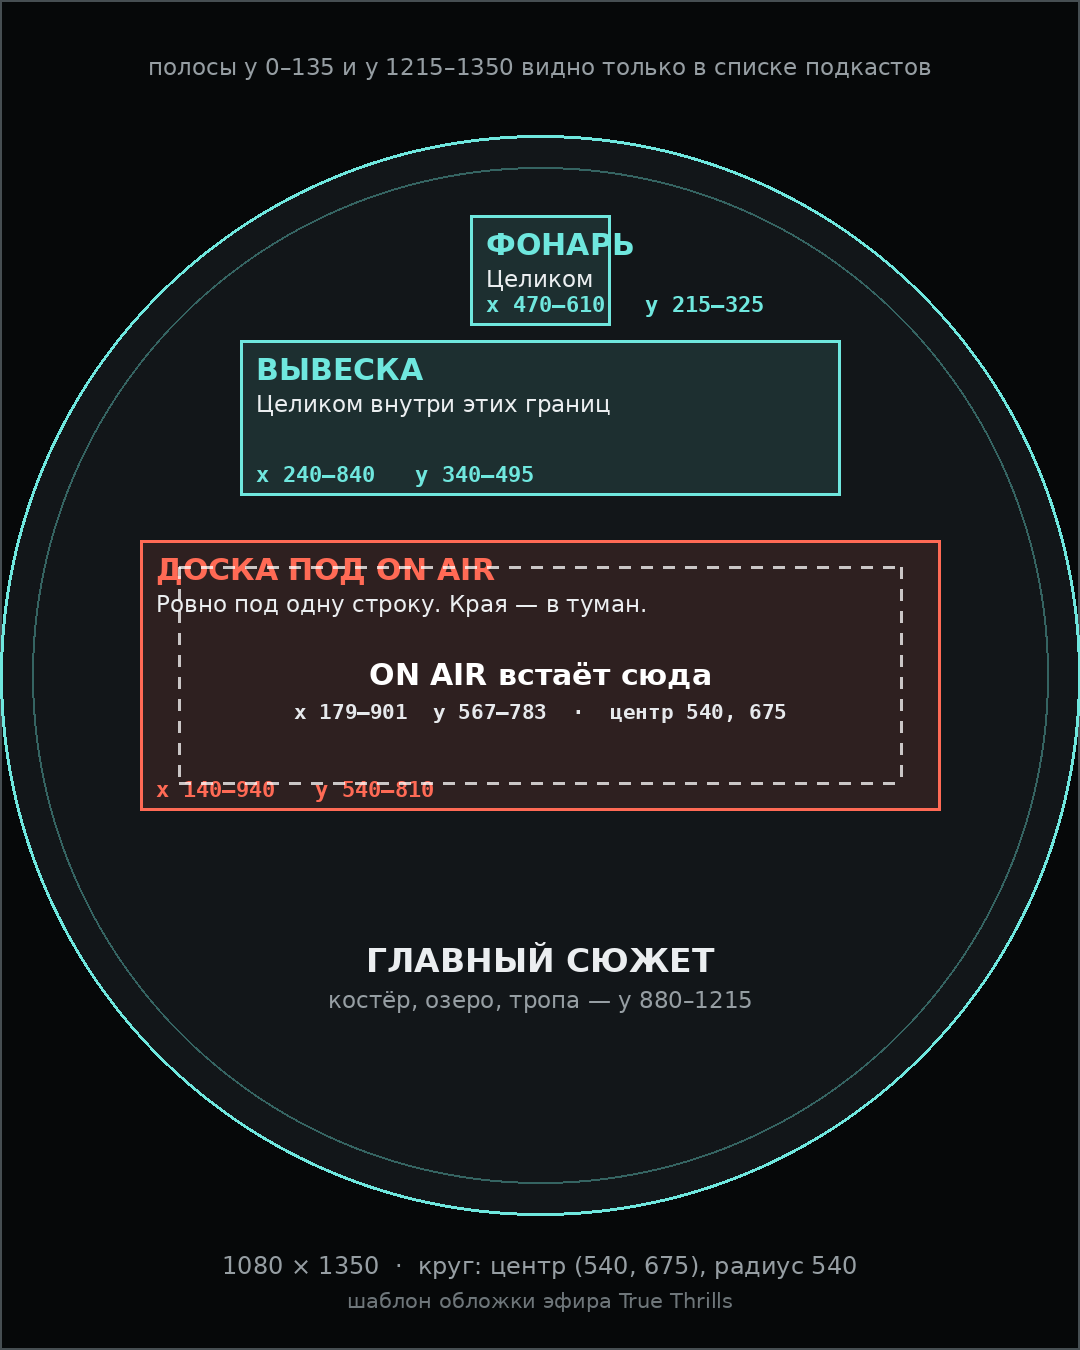
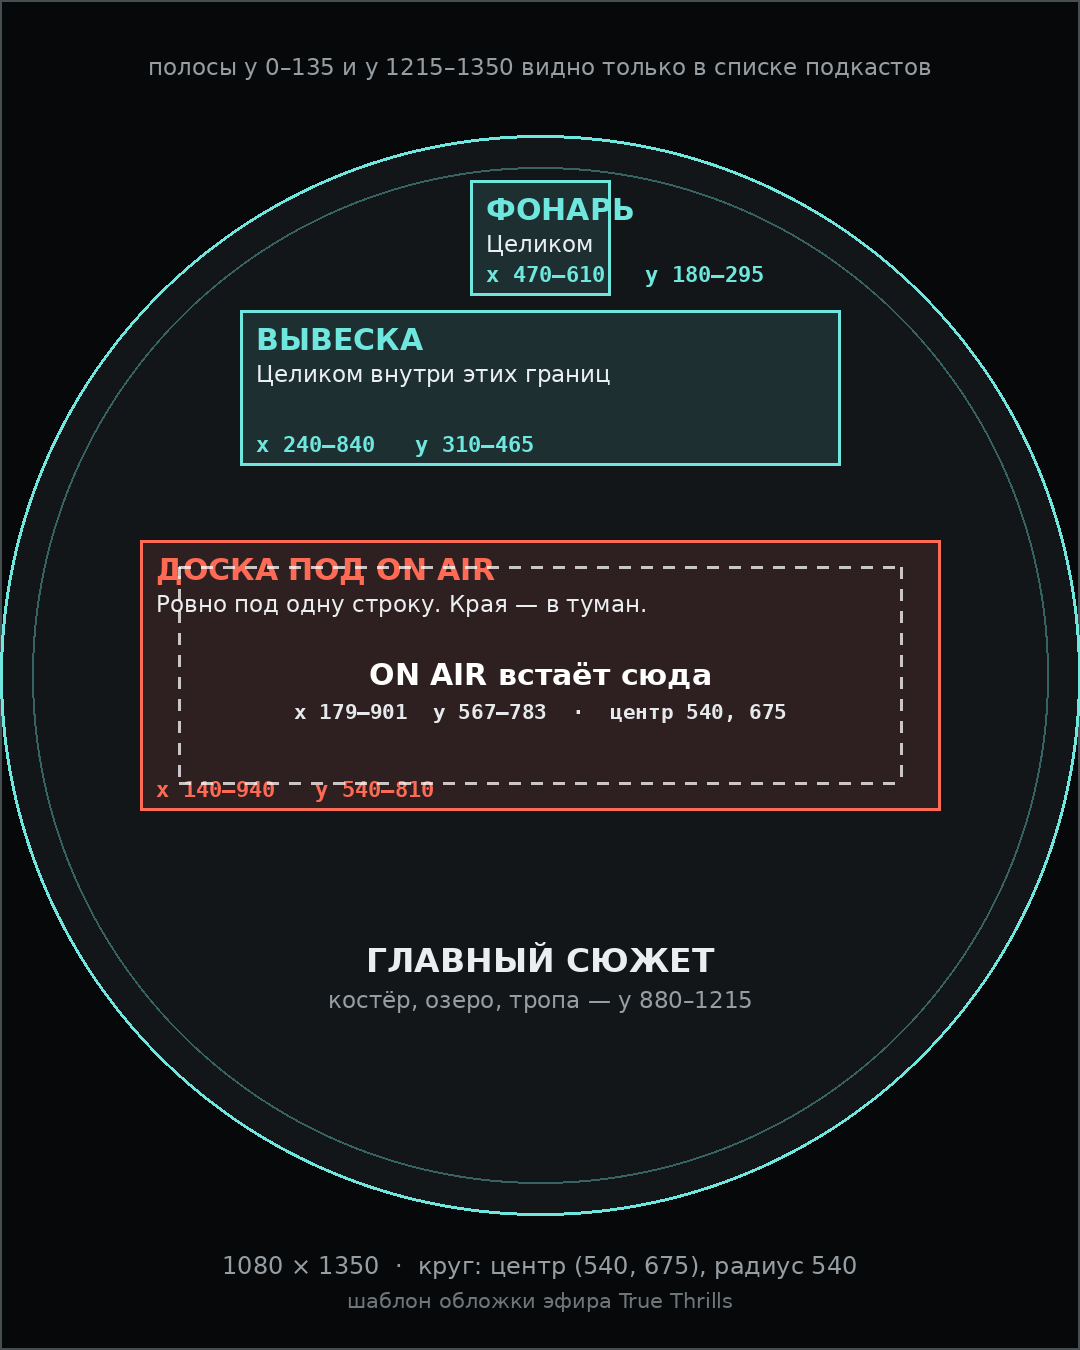
Лампа без размытия: доску рисует сама обложка
На обложке под надпись нарисована своя доска, и размытие мылило её дерево.
Подложки под лампой больше нет вовсе — ни фона, ни кромки, ни размытия,
только буквы с тенью. Читаемость на светлой картинке держит тень.

Промт: вывеска и фонарь подняты (фонарь y 180–295, вывеска y 310–465), цепи
идут до самого верхнего края кадра и не обрываются.

Тест теперь требует обратного прежнему: размытия под лампой быть не должно.

Claude-Session: https://claude.ai/code/session_01TG1p135avEJPonu5T1nwvj

Changed region(s): [[0.2139, 0.1244, 0.7944, 0.3733]]

diff --git a/app/globals.css b/app/globals.css
@@ -1658,16 +1658,13 @@ body:has(.tt-beams) .bottom-nav{z-index:30}
 /* Лампа набрана тем же широким шрифтом, что и знак канала в шапке: на студии
    это табло, а не заголовок, и засечки здесь выглядят как чужая цитата.
 
-   Подложки как таковой у неё нет. Обложку эфира автор рисует с собственной
-   доской под надпись, и плашка с кромкой ложилась на эту доску второй
-   табличкой. Поэтому размытие и затемнение растворяются к краям маской:
-   середина под буквами глухая, край — прозрачный, и на любой картинке лампа
-   выглядит частью кадра. */
+   Никакой подложки под ней нет вовсе: ни фона, ни кромки, ни размытия.
+   Обложку эфира автор рисует с собственной доской под надпись — вторая
+   подложка поверх неё выглядела второй табличкой, а размытие мылило его
+   дерево. Читаемость на светлой картинке держит тень у самих букв. */
 .live-orb-copy{letter-spacing:0;border:none;background:none;box-shadow:none;
  padding:16px 34px;border-radius:0;
- -webkit-backdrop-filter:blur(22px) brightness(.55) saturate(.9);backdrop-filter:blur(22px) brightness(.55) saturate(.9);
- -webkit-mask-image:radial-gradient(ellipse 72% 58% at 50% 50%,#000 0 62%,transparent 100%);
- mask-image:radial-gradient(ellipse 72% 58% at 50% 50%,#000 0 62%,transparent 100%)}
+ -webkit-backdrop-filter:none;backdrop-filter:none}
 .live-orb-copy strong{font-family:var(--font-ui);font-weight:700;
  font-size:clamp(19px,5.2vw,25px)}
 /* Цвета лампы — те же, что во всём приложении: в эфире тёплый сигнальный, в
